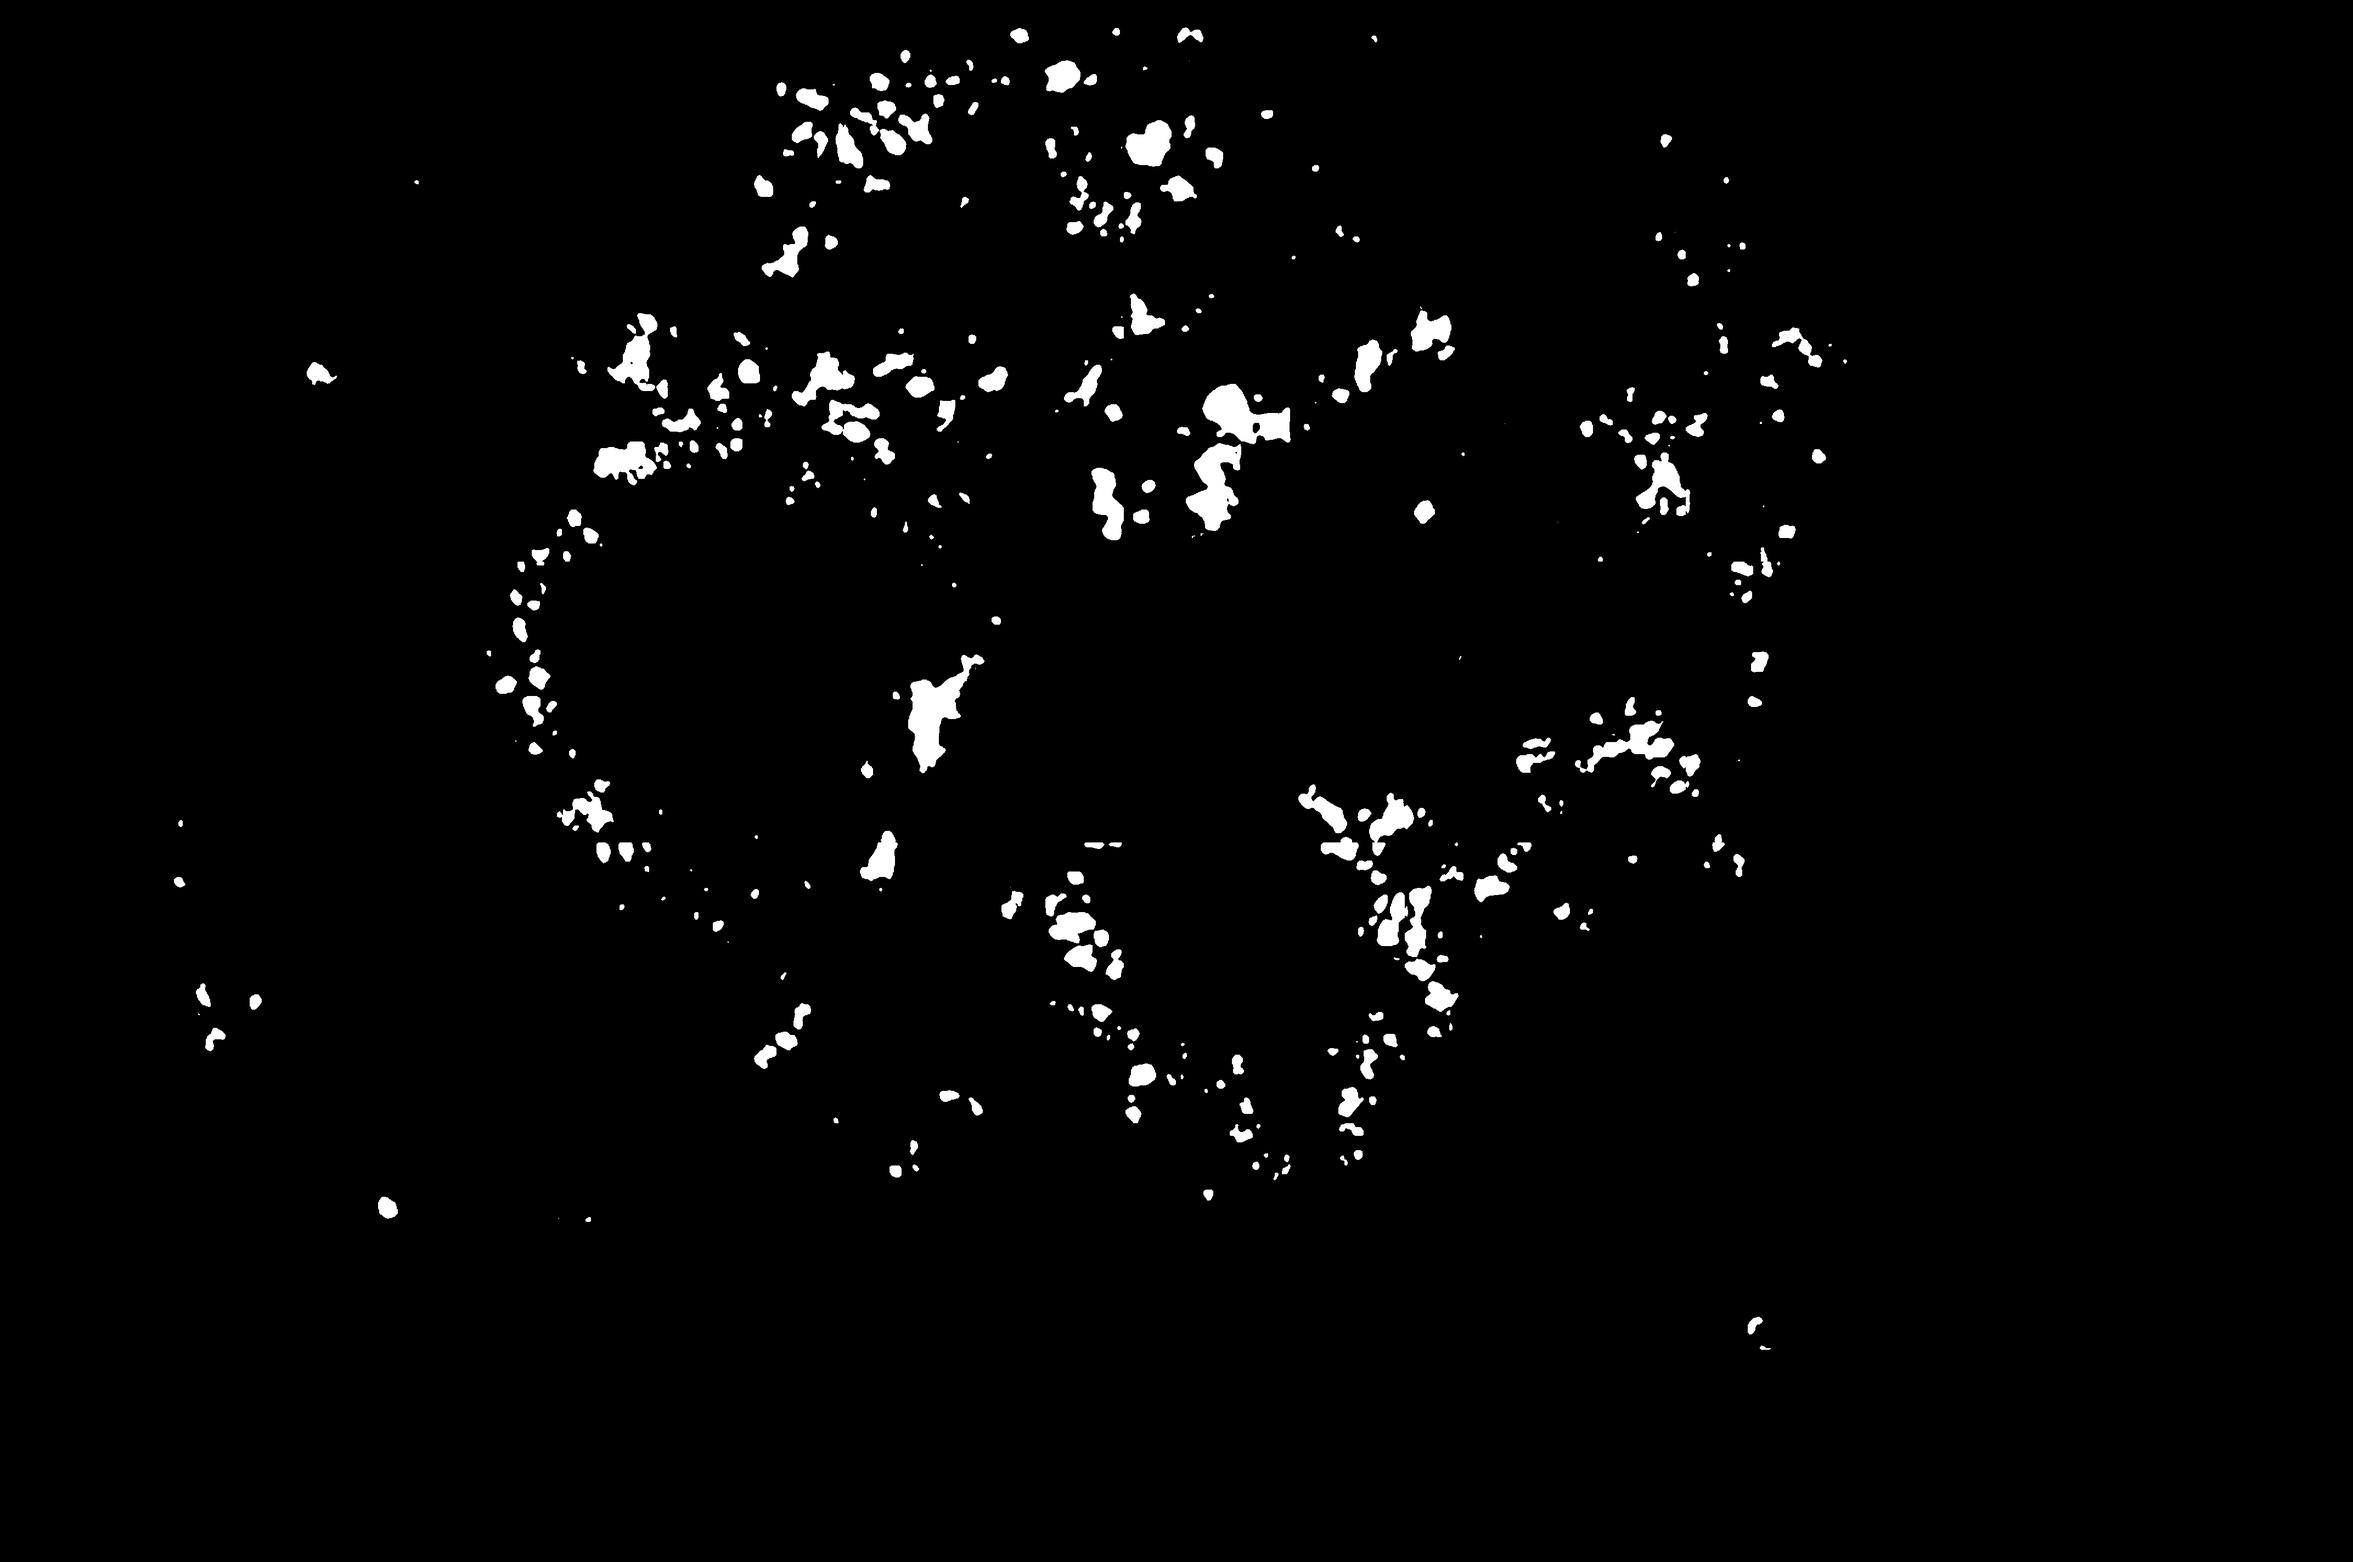
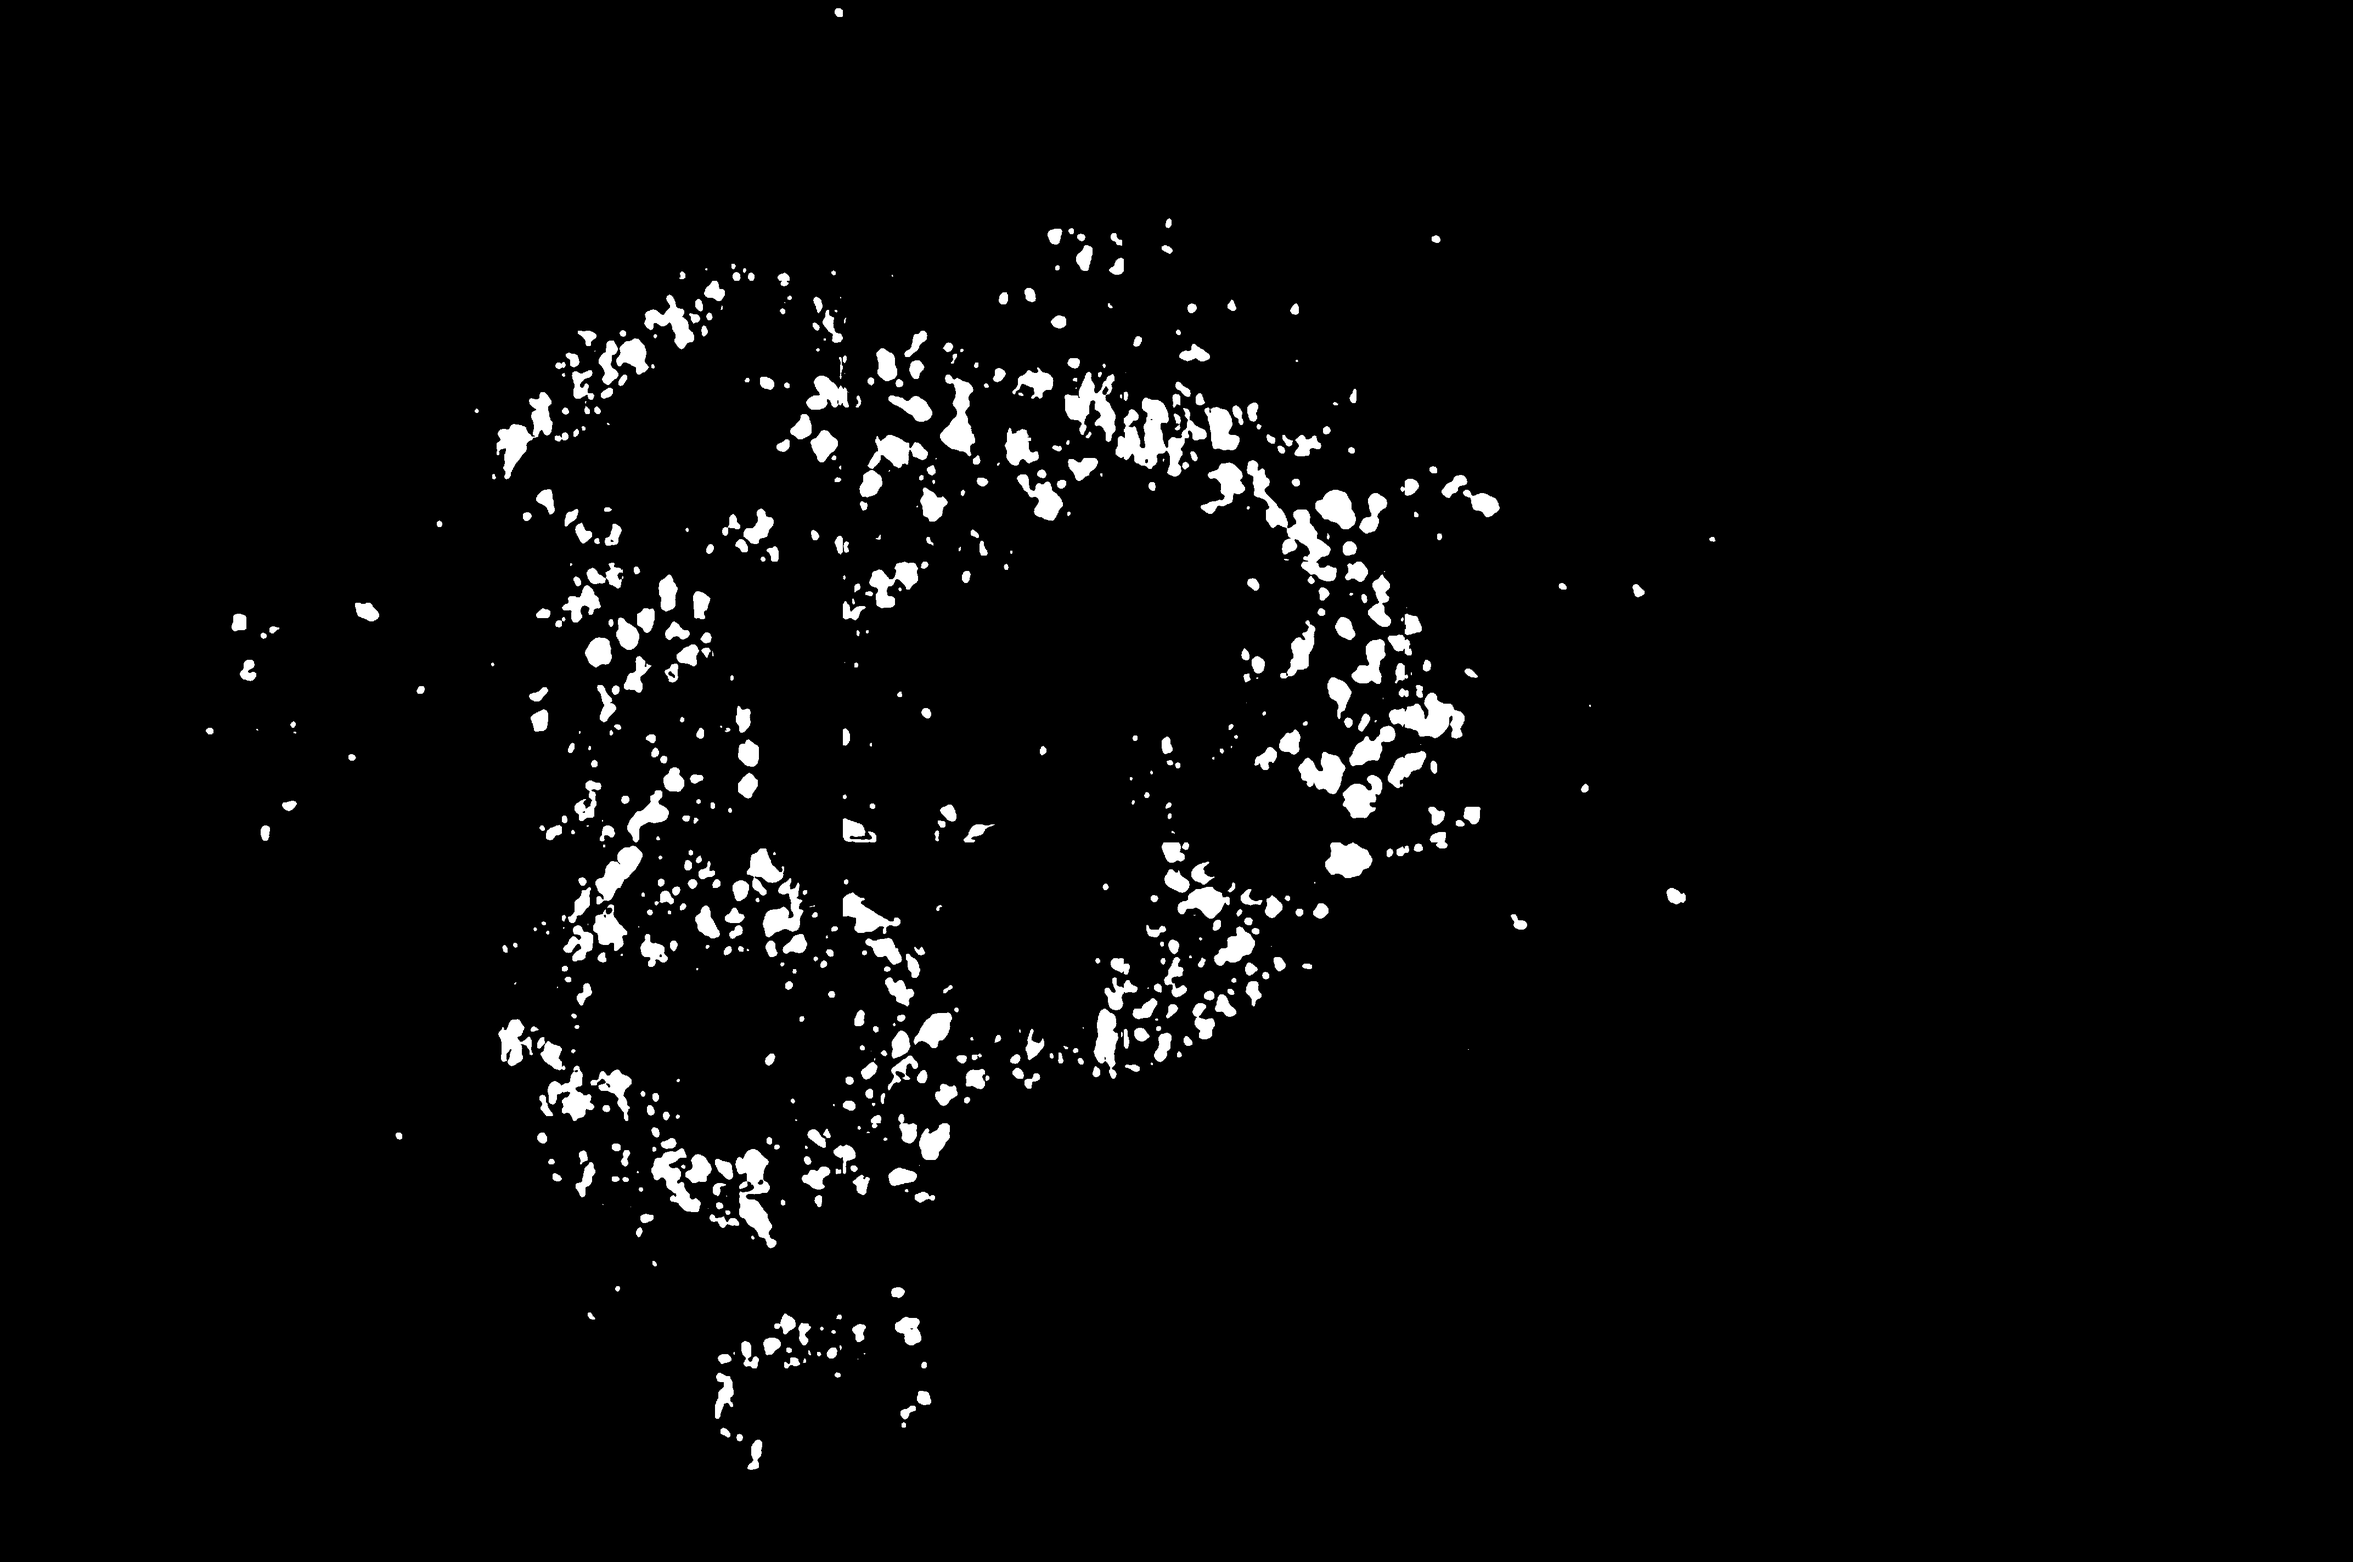
feat: implement model to the backend, update frontend prediction page

diff --git a/frontend/src/components/disease_detection/DetectDisease.jsx b/frontend/src/components/disease_detection/DetectDisease.jsx
@@ -3,7 +3,7 @@ import Nav from '../common/nav';
 import SampleImage from '../../assets/images/about1.png';
 import '../../assets/styles/detect-disease.css';
 import { Footer } from '../misc/Footer';
-
+import { useSearchParams } from 'react-router-dom';
 import { Upload, message, Button, FloatButton, Form } from 'antd'; // Import Upload and message from Ant Design
 import { CloseOutlined, InboxOutlined } from '@ant-design/icons';
 import api from '../../api';
@@ -14,6 +14,12 @@ const DetectDisease = () => {
   const [uploadedImage, setUploadedImage] = useState(null);
   const [imageData, setImageData] = useState(null);
   const [predictedImage, setPredictedImage] = useState(null)
+
+  // Get the searchParams object
+  const [searchParams] = useSearchParams();
+  const type_lesion = searchParams.get('type');
+  const title_lesion = searchParams.get('title');
+  
 
   const handleImageUpload = (info) => {
     const file = info.file.originFileObj; // Get the file object
@@ -40,7 +46,7 @@ const DetectDisease = () => {
     console.log(typeof imageData);
     const formData = new FormData();
     formData.append('image', imageData);
-    formData.append('lesion_type', 'hx');
+    formData.append('lesion_type', type_lesion);
     try {
       const response = await api.post("/api/predict-lesion/", formData, {
         headers: {
@@ -58,13 +64,27 @@ const DetectDisease = () => {
     }
   };
 
+  function toCapitalCase(str) {
+    // Split the string into words
+    const words = str.split(' ');
+
+    // Capitalize the first letter of each word
+    const capitalizedWords = words.map(word => {
+        const lowercaseWord = word.toLowerCase();
+        return lowercaseWord.charAt(0).toUpperCase() + lowercaseWord.slice(1);
+    });
+
+    // Join the capitalized words back into a string
+    return capitalizedWords.join(' ');
+}
+
   return (
     <>
       <Nav />
 
       <div className="container-fluid detect-disease-wrapper">
         <div className="row">
-          <h1 className='lead detect-disease-heading'>Retinal Lesions Segmentation</h1>
+          <h1 className='lead detect-disease-heading'>Retinal Lesions Segmentation - {toCapitalCase(title_lesion)}</h1>
         </div>
         <div className="row">
           {/* <Form> */}

diff --git a/frontend/src/components/disease_detection/DetectDiseaseDashboard.jsx b/frontend/src/components/disease_detection/DetectDiseaseDashboard.jsx
@@ -5,6 +5,7 @@ import '../../assets/styles/detect-disease.css';
 import DR_Avatar from '../../assets/images/avatar_de.png';
 import DR_Image from '../../assets/images/retina_pic.jpg'
 import { Footer } from '../misc/Footer';
+import { Link } from 'react-router-dom';
 
 const { Meta } = Card;
 
@@ -14,18 +15,22 @@ const DetectDiseaseDashboard = () => {
     {
       title: 'MICROANEURYSMS',
       description: 'Description 1',
+      type: 'MA'
     },
     {
       title: 'HEMORRHAGES',
-      description: 'Description 2'
+      description: 'Description 2',
+      type: 'HE'
     },
     {
       title: 'SOFT EXUDATES',
-      description: 'Description 3'
+      description: 'Description 3',
+      type: 'SE'
     },
     {
       title: 'HARD EXUDATES',
-      description: 'Description 3'
+      description: 'Description 3',
+      type: 'HX'
     },
   ];
 
@@ -56,9 +61,10 @@ const DetectDiseaseDashboard = () => {
                     <>
                       <Col span={12}>
                         <Card className='card-column' title={<> <Avatar size='large' src={DR_Avatar} /> {item?.title}</>} bordered={false}>
-                          
                           <div className="row">
-                            <Button icon={<RightCircleOutlined />} type='primary' size='large' ghost>Diagnose</Button>
+                            <Link to={`/detect-disease?type=${item?.type}&title=${item?.title}`}>
+                              <Button style={{ width: '100%' }} icon={<RightCircleOutlined />} type='primary' size='large' ghost>Diagnose</Button>
+                            </Link>
                           </div>
                         </Card>
                       </Col>

diff --git a/frontend/src/components/disease_detection/Patients.jsx b/frontend/src/components/disease_detection/Patients.jsx
@@ -81,7 +81,7 @@ function Patients() {
       render: (data) => (
         <>
         <Flex wrap="wrap" gap="small">
-          <Button type="primary" size='large'>update</Button>
+          {/* <Button type="primary" size='large'>update</Button> */}
           <Button type="primary" onClick={() => deletePatients(data.id)} size='large' danger>delete</Button>
         </Flex>
         </>

diff --git a/frontend/src/components/auth/FormWrapper.jsx b/frontend/src/components/auth/FormWrapper.jsx
@@ -31,6 +31,7 @@ function FormWrapper({ route, method }) {
 
     const onFinish = async (values) => {
         console.log('Success:', values);
+        setErrors([]);
         try {
             const res = await api.post(route, {...values})
             // console.log(res);

diff --git a/backend/detect_disease/predictions/predict.py b/backend/detect_disease/predictions/predict.py
@@ -26,8 +26,18 @@ def bce_dice_loss(y_true, y_pred):
     loss = losses.binary_crossentropy(y_true, y_pred) + dice_loss(y_true, y_pred)
     return loss
 
-def model():
-    model_path = 'detect_disease/predictions/models/hard_exudates_segmentation_model.keras'
+def model(lesion_type):
+    model_name = 'hard_exudates_segmentation_model.keras'
+    if lesion_type == 'HX':
+        model_name = 'hard_exudates_segmentation_model.keras'
+    elif lesion_type == 'HE':
+        model_name = 'haemorrhages_segmentation_model.keras'
+    elif lesion_type == 'SE':
+        model_name = 'soft_exudates_segmentation_model.keras'
+    elif lesion_type == 'MA':
+        model_name = 'microaneurysms_segmentation_model.keras'
+    
+    model_path = f'detect_disease/predictions/models/{model_name}'
     model = models.load_model(model_path, custom_objects={'bce_dice_loss': bce_dice_loss,
                                                           'dice_loss': dice_loss})
     return model
@@ -42,8 +52,8 @@ def save_predicted_image(predicted_image):
     # output_image.save(f'image{patch_id}.jpg', "JPEG", quality=100)
     return predicted_mask
 
-def predict_hx(image):
-    myModel = model()
+def predict_hx(image, lesion_type):
+    myModel = model(lesion_type)
     # image = tf.image.decode_jpeg(image, channels=3)
     image = tf.convert_to_tensor(image, dtype=tf.float32)
     image = tf.image.resize(image, (256, 256))/255.
@@ -53,7 +63,7 @@ def predict_hx(image):
     final_image = save_predicted_image(predicted_image)
     return final_image
 
-def generate_and_combine_patches(image):
+def generate_and_combine_patches(image, lesion_type):
     predicted_image = np.zeros((2848, 4288), dtype=float)
     for i in range(6): #10 or 6  [with stride, without stride]
         for j in range(9): #16 or 9
@@ -65,6 +75,6 @@ def generate_and_combine_patches(image):
                 top_x = 3776
             # image_crop = image[top_y:top_y+512, top_x:top_x+512]
             image_crop = image.crop((top_x, top_y, top_x + 512, top_y+512))
-            predicted_crop = predict_hx(image_crop)
+            predicted_crop = predict_hx(image_crop, lesion_type)
             predicted_image[top_y:top_y+512, top_x:top_x+512] = np.maximum(predicted_image[top_y:top_y+512, top_x:top_x+512], predicted_crop)
     return predicted_image

diff --git a/backend/detect_disease/views.py b/backend/detect_disease/views.py
@@ -33,7 +33,7 @@ class UploadImage(APIView):
           lesion_type = serializer.validated_data['lesion_type']
           # Save the image to a folder
           input_image = Image.open(BytesIO(image_data.read()))
-          predicted_image = generate_and_combine_patches(input_image)
+          predicted_image = generate_and_combine_patches(input_image, lesion_type)
           predicted_save = Image.fromarray(predicted_image)
           image = predicted_save.convert('RGB')
           image.save(f'media/predictions/lesion_images/predicted_{lesion_type}_image.jpg', "JPEG", quality=100)
